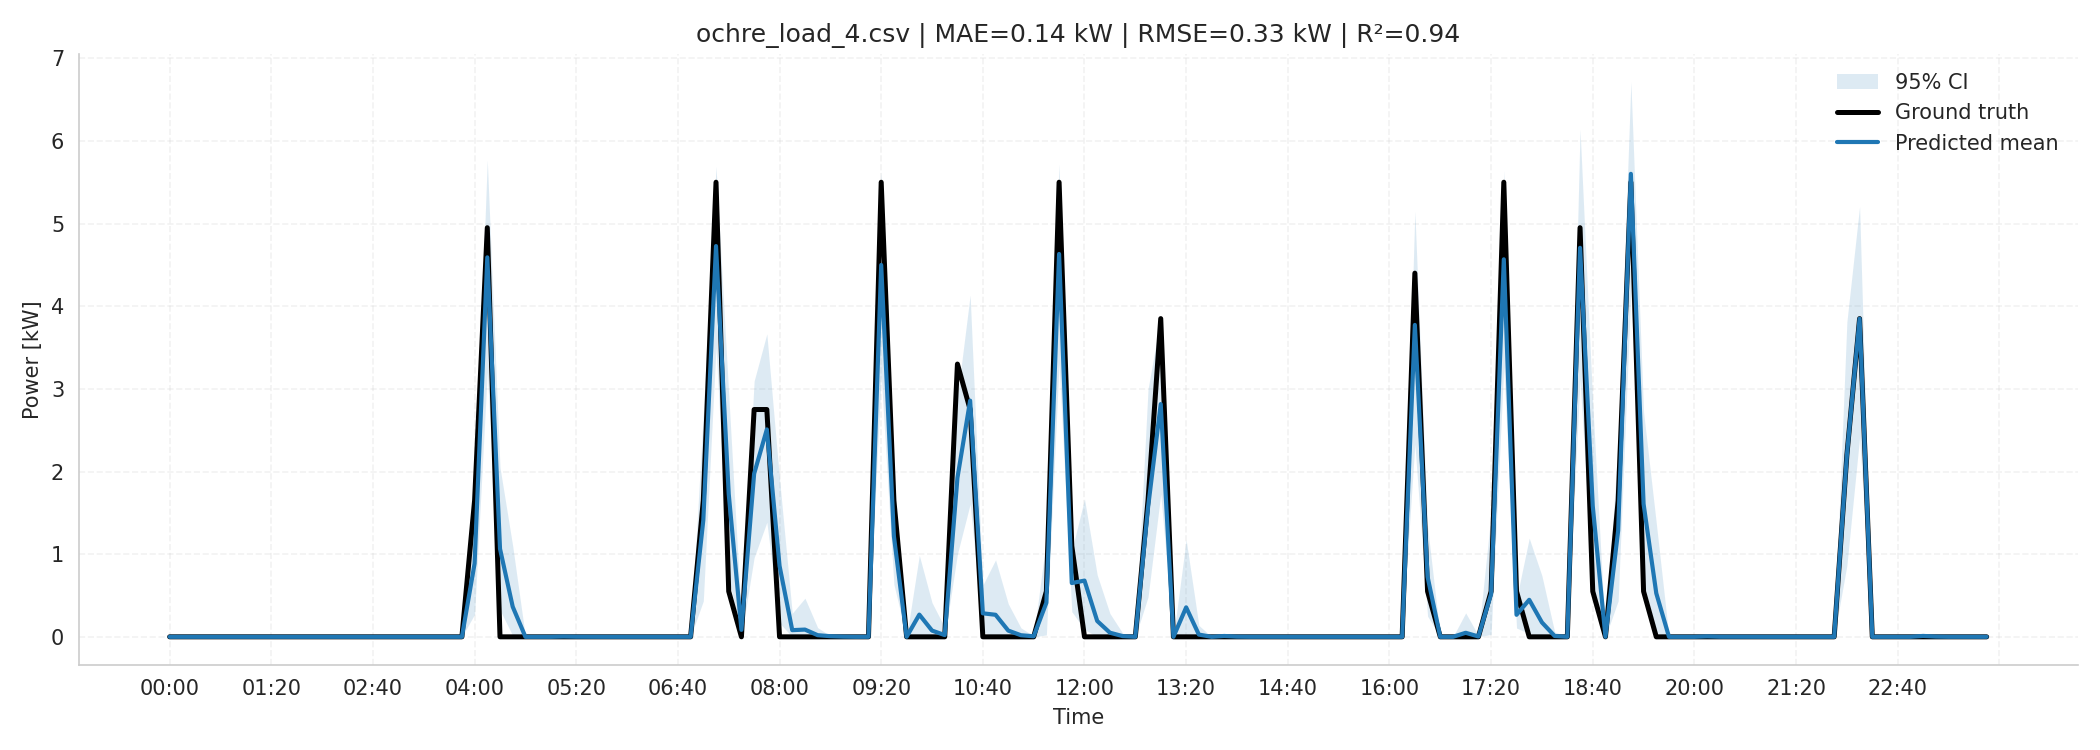
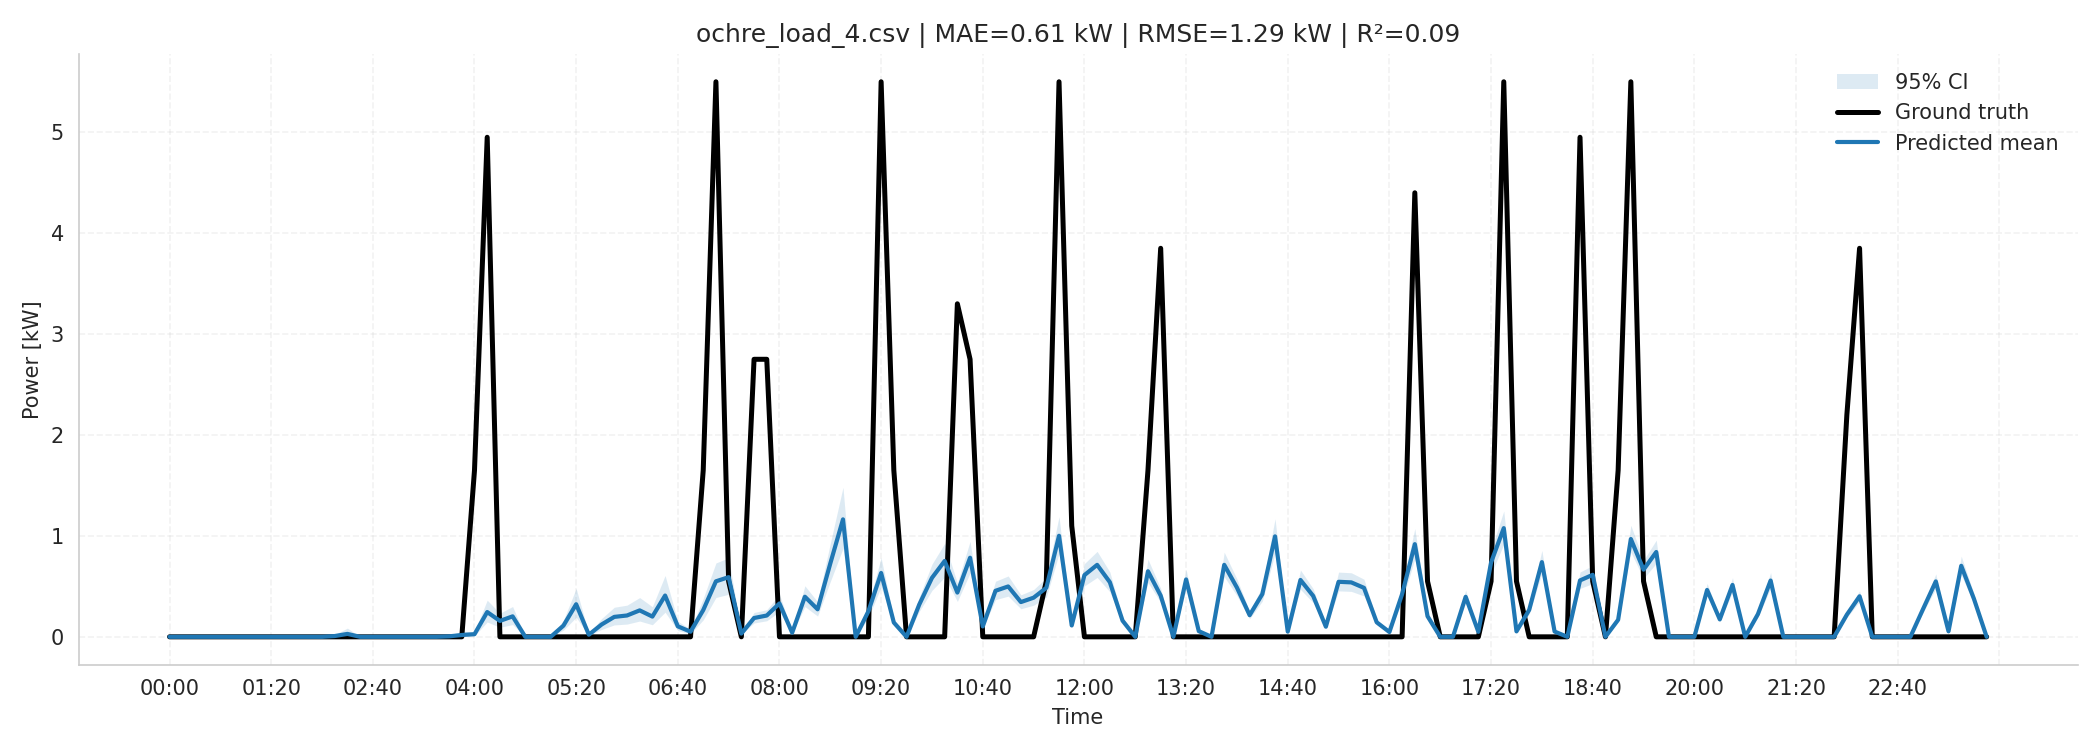
naieve approach: try with 1 weighting factor and un-normalized mean

diff --git a/cosimulation_tools/gld-ochre-helics/cosim_using_predownloaded_files/scripts/bayesian_implementation.py b/cosimulation_tools/gld-ochre-helics/cosim_using_predownloaded_files/scripts/bayesian_implementation.py
@@ -88,7 +88,7 @@ def bayesian_implementation (df : pd.DataFrame):
     history = initialize_history ()
     # define loop parameters:
     window_size, num_chunks = 10, 144
-    discount = 0.3
+    discount = 1
     for chunk_idx in range(num_chunks):
         start_index = chunk_idx * window_size
         # calculates heads and tails; the sum of ON and OFF states of DERs
@@ -143,14 +143,17 @@ def create_matrices_from_bayesian_results (df : pd.DataFrame, xfmr_df : pd.DataF
     ).T
 
     feeder_demand = xfmr_df ['power_out'].values
-    # kw_mean  = mean_matrix.div(mean_matrix.sum(axis=1), axis=0).multiply(feeder_demand, axis=0)
-    # kw_lower = ci_lower_matrix.div(ci_lower_matrix.sum(axis=1), axis=0).multiply(feeder_demand, axis=0)
-    # kw_upper = ci_upper_matrix.div(ci_upper_matrix.sum(axis=1), axis=0).multiply(feeder_demand, axis=0)
+
     total = mean_matrix.sum(axis=1)  # shared denominator
 
-    kw_mean  = mean_matrix.div(total, axis=0).multiply(feeder_demand, axis=0)
-    kw_lower = ci_lower_matrix.div(total, axis=0).multiply(feeder_demand, axis=0)
-    kw_upper = ci_upper_matrix.div(total, axis=0).multiply(feeder_demand, axis=0)
+    # kw_mean  = mean_matrix.div(total, axis=0).multiply(feeder_demand, axis=0)
+    # kw_lower = ci_lower_matrix.div(total, axis=0).multiply(feeder_demand, axis=0)
+    # kw_upper = ci_upper_matrix.div(total, axis=0).multiply(feeder_demand, axis=0)
+
+    kw_mean  = mean_matrix.multiply(feeder_demand, axis=0)
+    kw_lower = ci_lower_matrix.multiply(feeder_demand, axis=0)
+    kw_upper = ci_upper_matrix.multiply(feeder_demand, axis=0)
+
 
     return kw_mean, kw_lower, kw_upper
 
